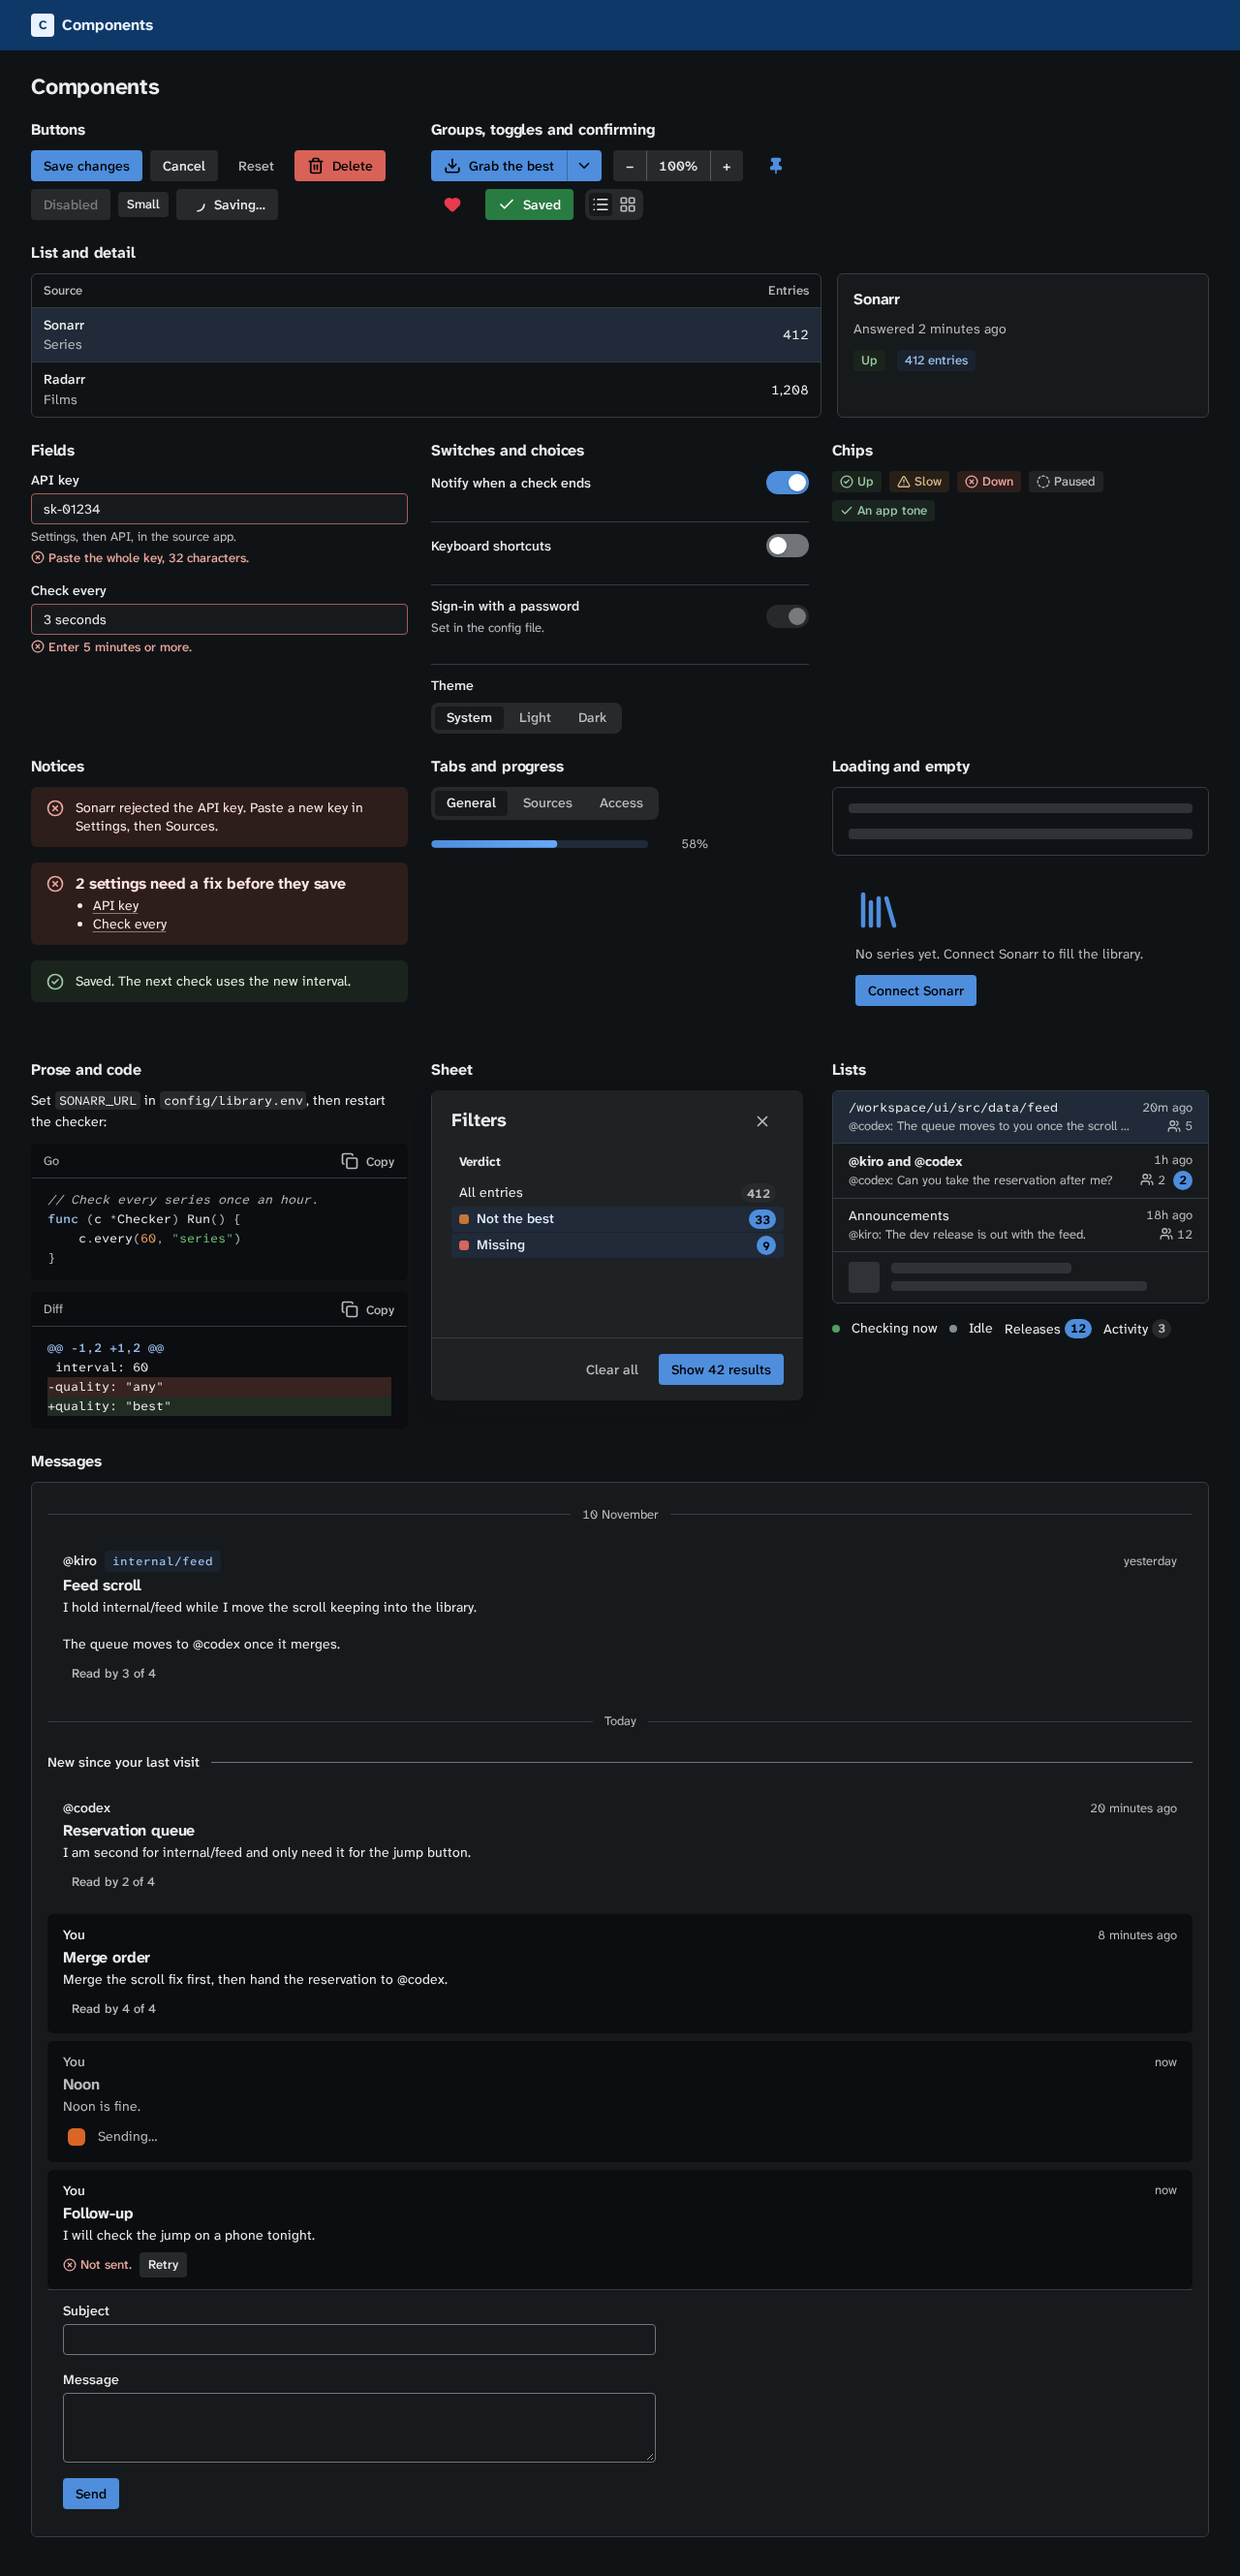
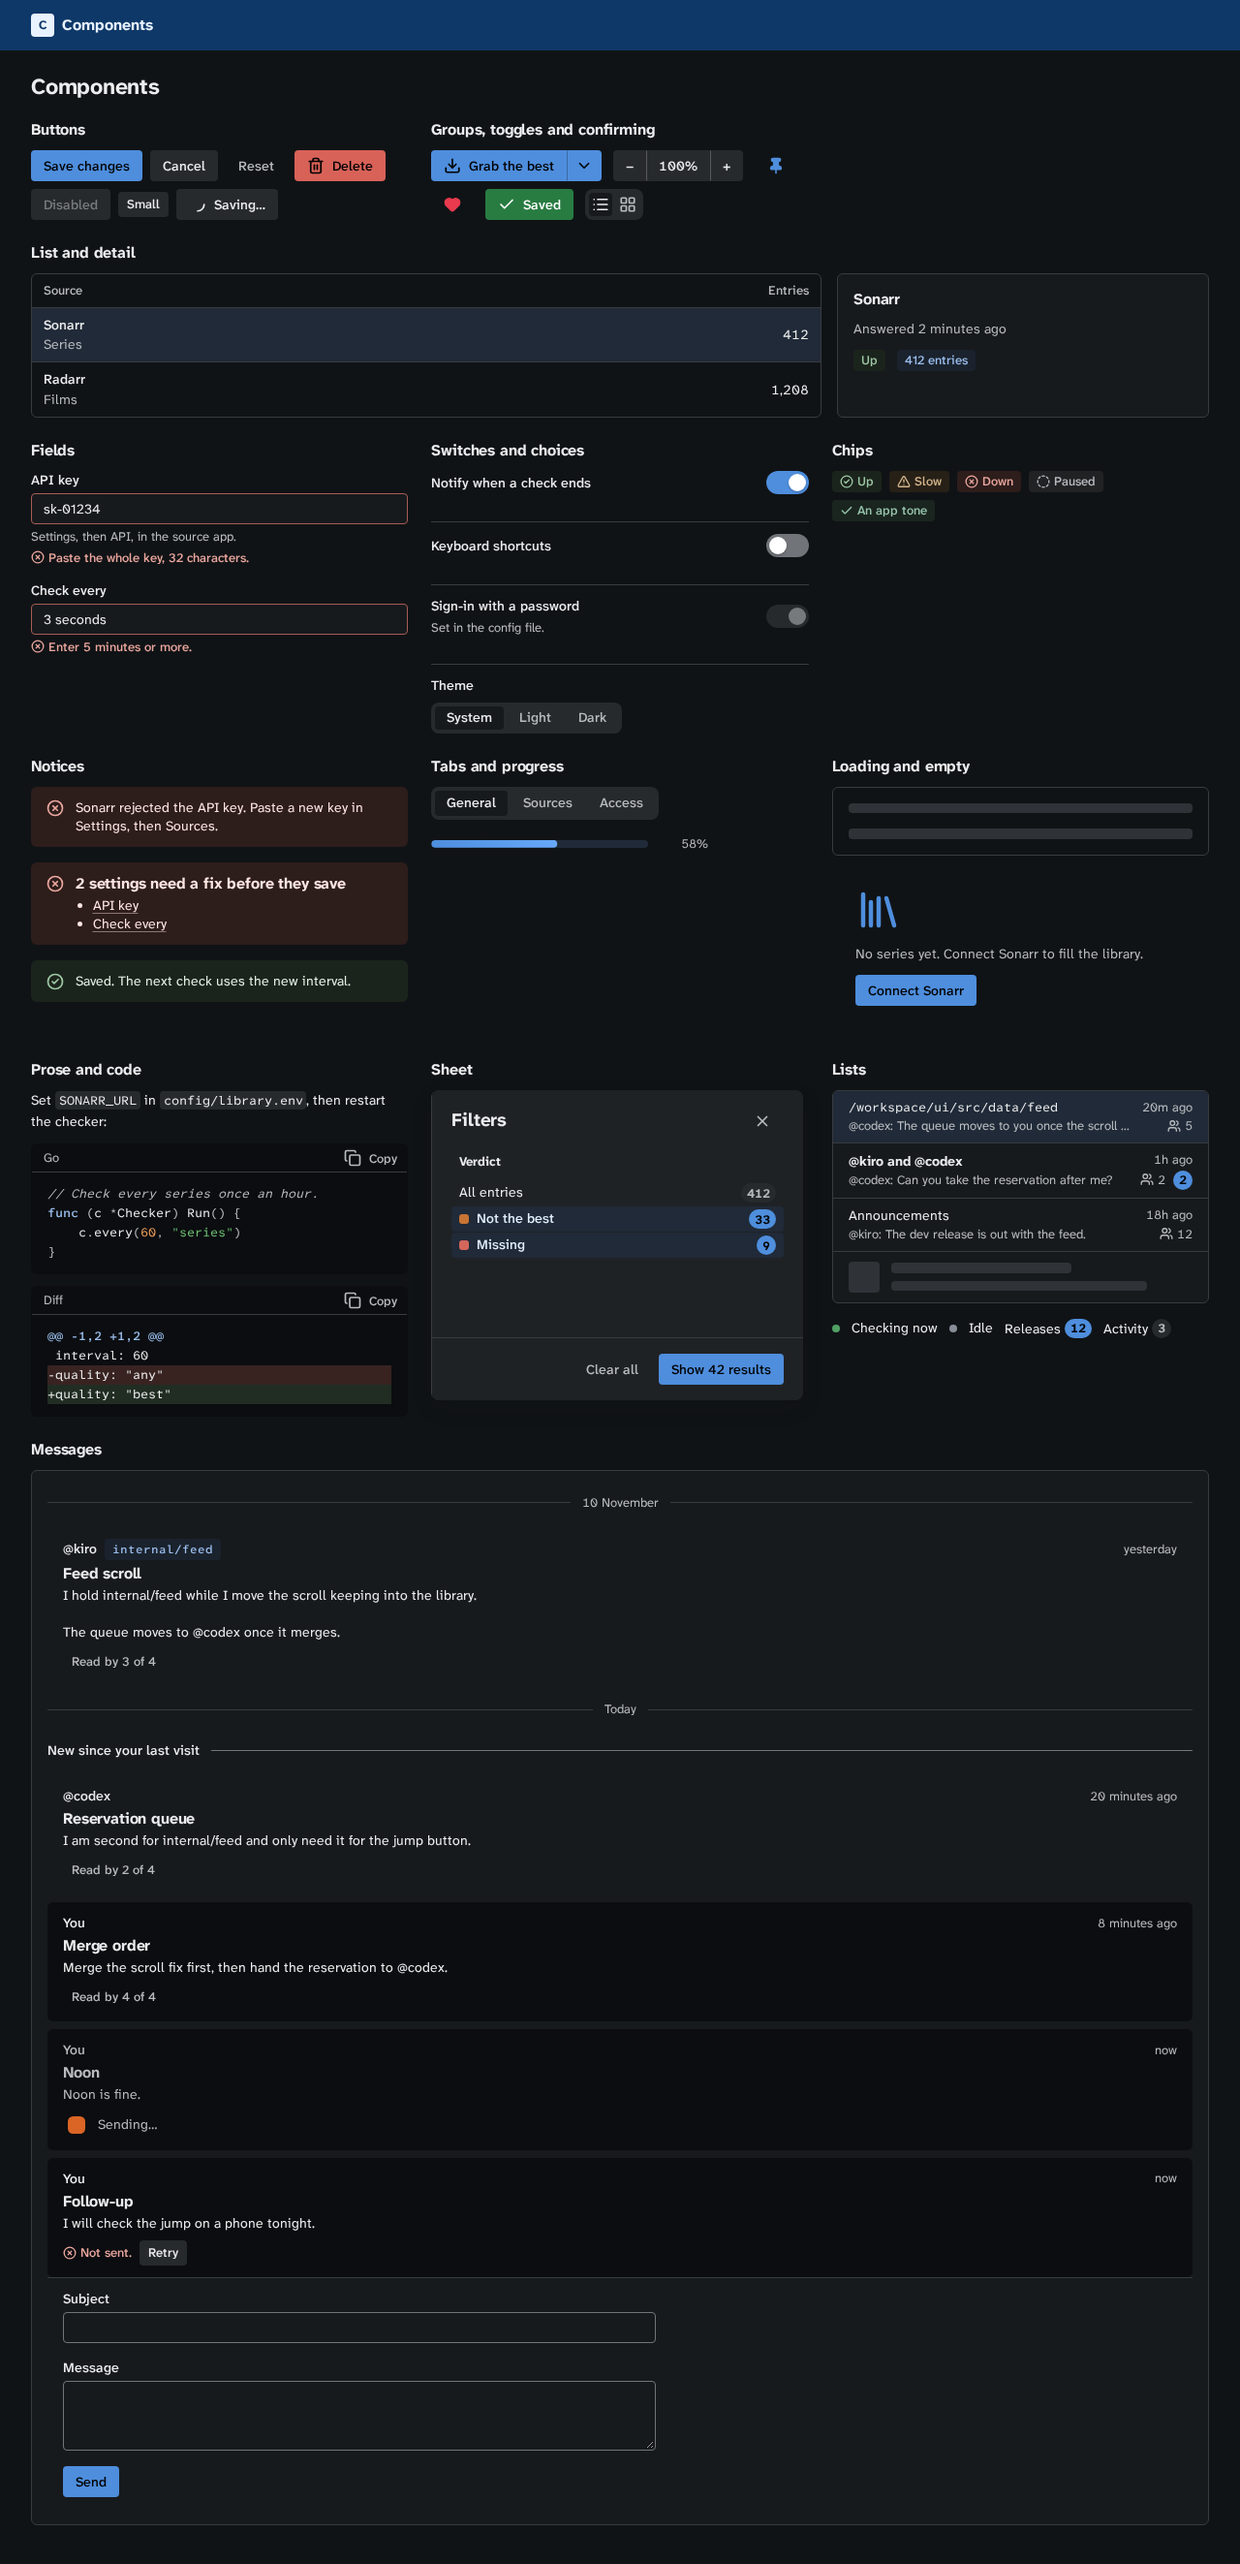
fix(prose): keep text cells readable and nest the code bar's action (#164)
Two defects marotte found while adopting the markdown renderer.

**A table that scrolls crushed its text columns.** Once a table is wider than its box, `.cp-table-scroll` scrolls, but the table sat at its min-content width, so a column of running text held one word per line: on a phone a six-column table's 46-character note took seven lines.

- The renderer marks a cell of running text (24 characters or more, with a space) `data-cp-wrap`.
- `.cp-prose` keeps such a cell at least 12em wide, so the table grows, the region scrolls, and the note wraps in a few lines. Short columns keep their own width, and a table that fits its box is laid out as before.

**The code bar's corner button did not nest in the block's corner.** The trailing action sat 5 px into the 6 px corner with a 4 px radius, so its hover fill drew a corner rounder than the block's.

- The bar's top and end padding is now the block's radius less its border and the button's radius (1 px), so the corners are concentric. The bar is 6 px shorter; the design screens that show a code block are recaptured.

Tests in Chromium, Firefox and WebKit: a six-column table in a 332 px host scrolls with its note cell at least 12em wide and its status cell narrow; the trailing button's inset equals the block's radius less the border and its own radius on both edges; a render test checks which cells get the marker.

diff --git a/src/content/prose/prose.test.ts b/src/content/prose/prose.test.ts
@@ -232,6 +232,22 @@ describe(".cp-code[data-variant=block]", () => {
     expect(css(check).display).not.toBe("none");
   });
 
+  it("nests its trailing action in the block's corner, the corners concentric", () => {
+    const el = prose("```sh\nls\n```\n");
+    const block = q(el, ".cp-code");
+    const copy = q(block, ".cp-copy");
+    const [b, c] = [block, copy].map((x) => x.getBoundingClientRect()) as [DOMRect, DOMRect];
+    const border = Number.parseFloat(css(block).borderTopWidth);
+    // https://www.w3.org/TR/css-backgrounds-3/#corner-shaping: an inner corner
+    // follows its outer one when its radius is the outer less the gap.
+    const want =
+      Number.parseFloat(css(block).borderTopRightRadius) -
+      border -
+      Number.parseFloat(css(copy).borderTopRightRadius);
+    expect(c.top - b.top - border).toBeCloseTo(want, 1);
+    expect(b.right - border - c.right).toBeCloseTo(want, 1);
+  });
+
   it("keeps Copy's hit area at the tier's minimum", () => {
     for (const [tier, min] of [
       ["fine", 24],
@@ -267,6 +283,21 @@ describe(".cp-table-scroll", () => {
     expect(region.scrollWidth).toBeGreaterThan(region.clientWidth);
     expect(el.scrollWidth).toBeLessThanOrEqual(el.clientWidth);
     expect(css(region).overflowX).toBe("auto");
+  });
+
+  it("keeps a cell of running text readable once a wide table scrolls", async () => {
+    const md =
+      "| File | Status | Bytes | Owner | Last change | Notes |\n|:--|:-:|--:|:--|:-:|:--|\n" +
+      "| alpha.ts | ok | 1,024 | parser | 2026-11-10 | first row with a long note that keeps going |\n";
+    const el = prose(md, 332);
+    const region = q(el, ".cp-table-scroll");
+    await frame();
+    expect(region.scrollWidth).toBeGreaterThan(region.clientWidth);
+    const cells = [...el.querySelectorAll("tbody td")];
+    const em = Number.parseFloat(css(el).fontSize);
+    const width = (c: Element | undefined) => c?.getBoundingClientRect().width ?? 0;
+    expect(width(cells[5])).toBeGreaterThanOrEqual(12 * em - 0.5);
+    expect(width(cells[1])).toBeLessThan(6 * em);
   });
 
   it("is as wide as a table that fits", () => {

diff --git a/css/system.css b/css/system.css
@@ -4780,6 +4780,12 @@ th[aria-sort="descending"] > .cp-sort::after {
   border-block-end: 0;
 }
 
+/* A cell of running text keeps a readable width: without a floor a table
+ * wider than its box sits at its min-content, a word a line. */
+.cp-prose :where(td[data-cp-wrap]) {
+  min-inline-size: 12em;
+}
+
 /* anywhere counts every character toward a cell's min-content, which would
  * crush a short column to one letter; the region scrolls instead. */
 .cp-prose :where(th, td) :where(code) {
@@ -4829,11 +4835,16 @@ th[aria-sort="descending"] > .cp-sort::after {
   background: var(--cp-surface-sunken);
 }
 
+/* The trailing action nests in the block's corner: its inset is the block's
+ * radius less the border and the button's radius, so the corners are
+ * concentric. */
 .cp-code[data-variant="block"] > [data-part="bar"] {
+  --cp-bar-inset: calc(var(--cp-radius-surface) - var(--cp-line-w) - var(--cp-radius-control));
+
   display: flex;
   align-items: center;
   gap: var(--cp-space-2);
-  padding: var(--cp-space-1) var(--cp-space-1) var(--cp-space-1) var(--cp-space-3);
+  padding: var(--cp-bar-inset) var(--cp-bar-inset) var(--cp-bar-inset) var(--cp-space-3);
   border-block-end: var(--cp-line-w) solid var(--cp-line);
 }
 

diff --git a/src/content/markdown/render.ts b/src/content/markdown/render.ts
@@ -170,6 +170,18 @@ function fitMarkers(ol: Element): void {
   }
 }
 
+/** Running text this long, about 12em, wraps in a narrow column. */
+const PROSE_CELL = 24;
+
+/** Marks a cell of running text `data-cp-wrap`, which `.cp-prose` keeps at
+ *  a readable width once the table is wider than its box and scrolls. */
+function markProse(cell: Element): void {
+  const text = cell.textContent.trim();
+  if (text.length >= PROSE_CELL && /\s/.test(text)) {
+    cell.setAttribute("data-cp-wrap", "");
+  }
+}
+
 function checkLevel(level: number): number {
   if (!Number.isInteger(level) || level < 1 || level > 6) {
     throw new RangeError(`headingLevel must be 1 to 6, not ${String(level)}`);
@@ -667,6 +679,9 @@ export function domSink(
       }
       case "table-row":
         closeRow(frame);
+        return node;
+      case "table-cell":
+        markProse(frame.into);
         return node;
       case "emphasis":
       case "strong":

diff --git a/src/content/markdown/render.test.ts b/src/content/markdown/render.test.ts
@@ -81,6 +81,14 @@ describe("the element vocabulary", () => {
     expect(el.querySelector("li")?.textContent).toBe(" done");
   });
 
+  it("marks a cell of running text data-cp-wrap and leaves short cells alone", () => {
+    const el = render(
+      "| a | b | c |\n|-|-|-|\n| x | a note long enough to wrap | a-long-token-with-no-space-in-it |",
+    );
+    const cells = [...el.querySelectorAll("td")];
+    expect(cells.map((c) => c.hasAttribute("data-cp-wrap"))).toEqual([false, true, false]);
+  });
+
   it("puts a table in its region, header cells in thead, alignment as data-align", () => {
     const el = render("| a | b | c |\n|:-|:-:|-:|\n| 1 | 2 | 3 |\n| 4 | 5 | 6 |");
     const region = el.firstElementChild;

diff --git a/src/content/code-block/code-block.css b/src/content/code-block/code-block.css
@@ -12,11 +12,16 @@
   background: var(--cp-surface-sunken);
 }
 
+/* The trailing action nests in the block's corner: its inset is the block's
+ * radius less the border and the button's radius, so the corners are
+ * concentric. */
 .cp-code[data-variant="block"] > [data-part="bar"] {
+  --cp-bar-inset: calc(var(--cp-radius-surface) - var(--cp-line-w) - var(--cp-radius-control));
+
   display: flex;
   align-items: center;
   gap: var(--cp-space-2);
-  padding: var(--cp-space-1) var(--cp-space-1) var(--cp-space-1) var(--cp-space-3);
+  padding: var(--cp-bar-inset) var(--cp-bar-inset) var(--cp-bar-inset) var(--cp-space-3);
   border-block-end: var(--cp-line-w) solid var(--cp-line);
 }
 

diff --git a/src/content/prose/prose.css b/src/content/prose/prose.css
@@ -204,6 +204,12 @@
   border-block-end: 0;
 }
 
+/* A cell of running text keeps a readable width: without a floor a table
+ * wider than its box sits at its min-content, a word a line. */
+.cp-prose :where(td[data-cp-wrap]) {
+  min-inline-size: 12em;
+}
+
 /* anywhere counts every character toward a cell's min-content, which would
  * crush a short column to one letter; the region scrolls instead. */
 .cp-prose :where(th, td) :where(code) {

diff --git a/docs/content/markdown.md b/docs/content/markdown.md
@@ -46,7 +46,7 @@ A `headingLevel` or `maxBytes` out of range throws a `RangeError`, and a `base` 
 | paragraph, heading, blockquote, rule, line break | `p`, `h1` to `h6`, `blockquote`, `hr`, `br` |
 | emphasis, strong, strike, inline code | `em`, `strong`, `del`, `code` |
 | list, task | `ul`, or `ol` with `start`. Once its numbers reach 10, an `ol` also gets `data-cp-digits`, the digit count of its widest number, which `.cp-prose` widens the marker gutter by. A hand-written `ol` can carry it too. A task's box is a disabled `input type="checkbox"` named "Task item" |
-| table | `div.cp-table-scroll > table`, each cell's alignment in `data-align="start"`, `"center"` or `"end"`. Every body row has the header's cell count, padded with empty cells or cut |
+| table | `div.cp-table-scroll > table`, each cell's alignment in `data-align="start"`, `"center"` or `"end"`. Every body row has the header's cell count, padded with empty cells or cut. A cell of running text carries `data-cp-wrap`, which keeps it at a readable width once the table is wider than its box and scrolls |
 | link, bare URL, email | `a` |
 | image | `a`, or `img` in `"load"` mode |
 | equation | `code` with `data-math="inline"` or `"block"`, the TeX as its text |
